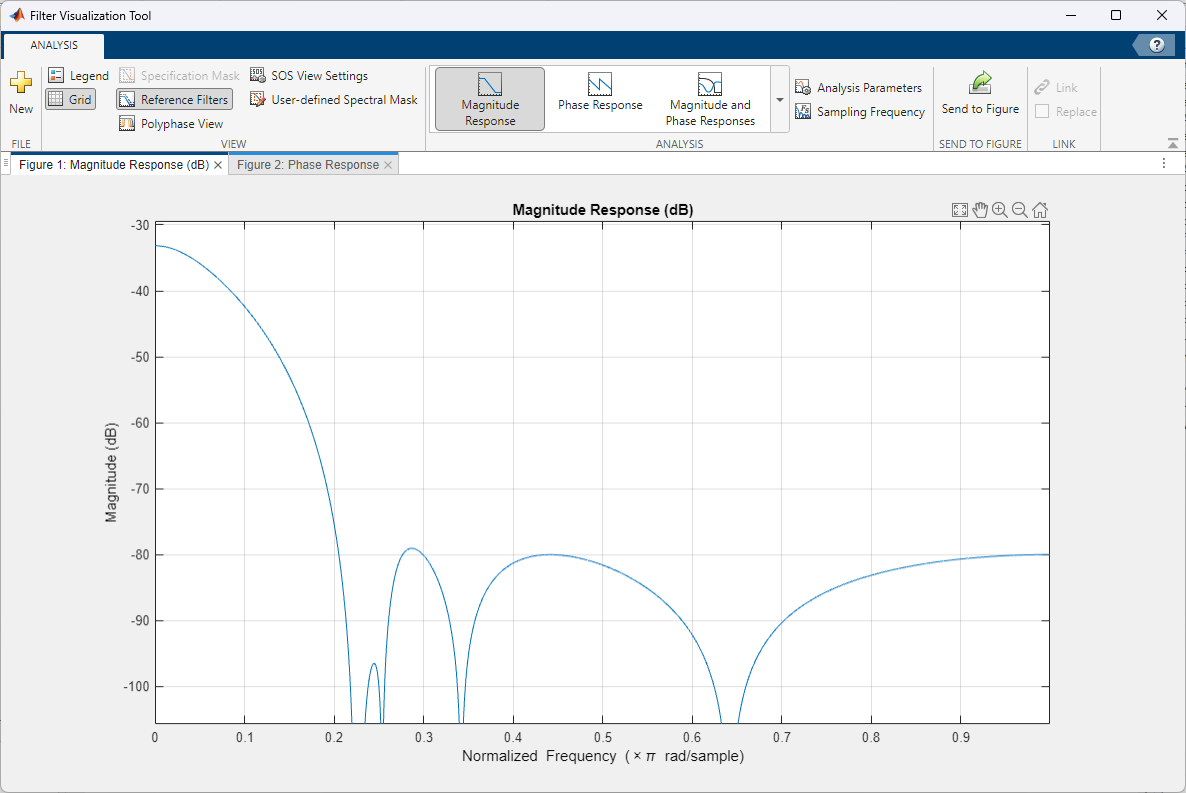
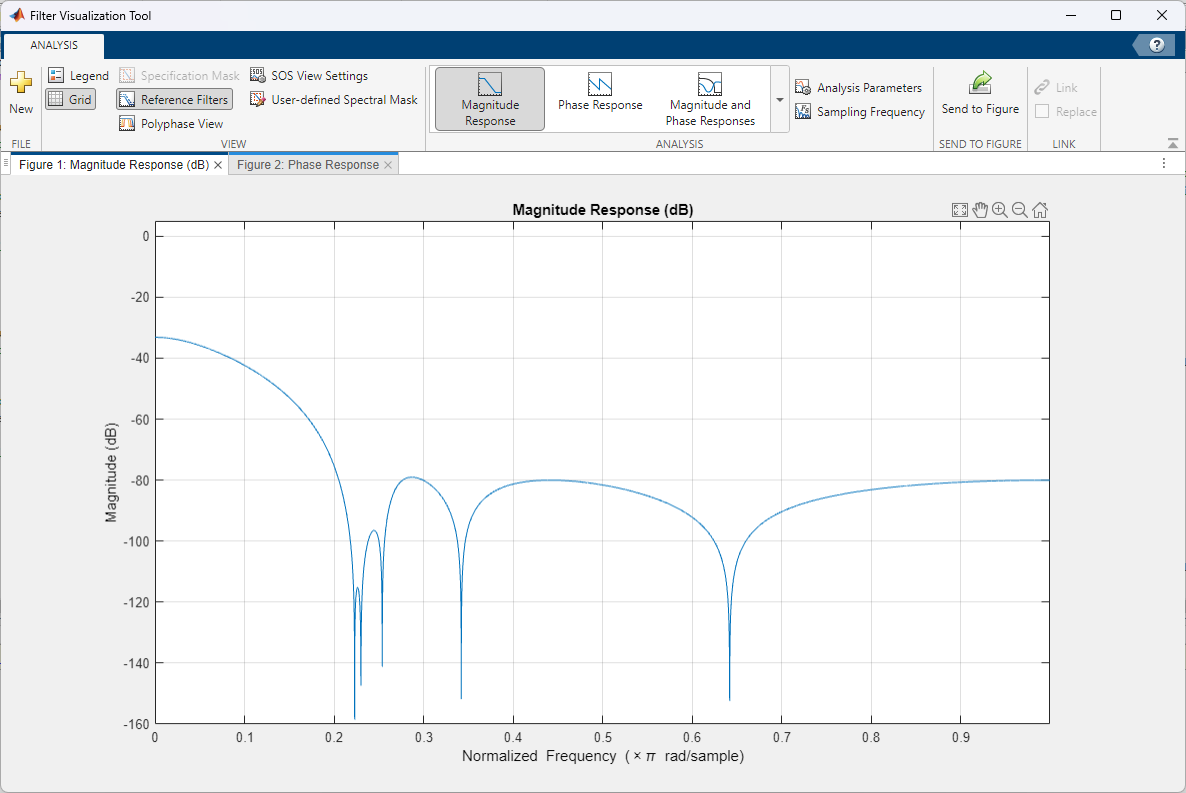
testbench

diff --git a/Projects/Final Project- IIR Filter/MATLAB/testbenches/matlab_tests/testbench.m b/Projects/Final Project- IIR Filter/MATLAB/testbenches/matlab_tests/testbench.m
@@ -2,19 +2,19 @@
 fs = 48000;         % Sampling frequency in Hz, exceeds the minimum required to satisfy the Nyquist criterion for the frequencies of interest in this project
 f_sin = 1000;       % Sine wave frequency in Hz
 t = 0:1/fs:1-1/fs;  % Time vector
-
-% ===================== Signal to Noise Ratio (SNR) and Estimated Number of Bits (ENOB) =====================
+ 
+% % ===================== Signal to Noise Ratio (SNR) and Estimated Number of Bits (ENOB) =====================
 fprintf('\nSNR and ENOB Testing:\n');
 % Generating a sine wave input signal
 input_signal = sin(2*pi*f_sin*t);
 
 % Generating noise by filtering random noise through the filter
-noise_unquantized = filter(b, a, 1, randn(size(t)));
-noise_quantized = filter(b_quantized_double, 1, randn(size(t)));
+noise_unquantized = filter(b_unquantized, a_unquantized, randn(size(t)));
+noise_quantized = filter(b_quantized_double, a_quantized_double, randn(size(t)));
 
 % Passing the sine wave and noise through both unquantized and quantized filters
-output_signal_unquantized = filter(b, 1, input_signal + noise_unquantized);
-output_signal_quantized = filter(b_quantized_double, 1, input_signal + noise_quantized);
+output_signal_unquantized = filter(b_unquantized, a_unquantized, input_signal + noise_unquantized);
+output_signal_quantized = filter(b_quantized_double, a_quantized_double, input_signal + noise_quantized);
 
 % First compute the Power Spectral Density (PSD) of the output signals
 [psd_unquantized, f] = pwelch(output_signal_unquantized, [], [], [], fs);
@@ -51,13 +51,18 @@ amplitudes = linspace(0.01, 1, 10);
 
 for amp = amplitudes
     input_signal_amp = amp * sin(2*pi*f_sin*t);
-    output_signal_amp_unquantized = filter(b, 1, input_signal_amp + noise_unquantized);
-    output_signal_amp_quantized = filter(b_quantized_double, 1, input_signal_amp + noise_quantized);
-    
-    % Measuring SNR against the original amplitude modulated signal
-    snr_amp_unquantized = snr(output_signal_amp_unquantized - input_signal_amp, noise_unquantized);
-    snr_amp_quantized = snr(output_signal_amp_quantized - input_signal_amp, noise_quantized);
-    
+    output_signal_amp_unquantized = filter(b_unquantized, a_unquantized, input_signal_amp + noise_unquantized);
+    output_signal_amp_quantized = filter(b_quantized_double, a_quantized_double, input_signal_amp + noise_quantized);
+
+    % SNR calculation should be done by comparing the filtered signal to the noise-free input
+    % Hence, subtracting the un-noised input signal from the output to isolate noise for SNR calculation
+    residual_noise_unquantized = output_signal_amp_unquantized - input_signal_amp;
+    residual_noise_quantized = output_signal_amp_quantized - input_signal_amp;
+
+    % Calculate SNR using the residual noise as the noise term
+    snr_amp_unquantized = snr(input_signal_amp, residual_noise_unquantized);
+    snr_amp_quantized = snr(input_signal_amp, residual_noise_quantized);
+
     fprintf('Amplitude: %.2f - Unquantized SNR: %.2f dB, Quantized SNR: %.2f dB\n', amp, snr_amp_unquantized, snr_amp_quantized);
 end
 
@@ -76,10 +81,12 @@ frequencies = linspace(Fpass_Hz, Fstop_Hz, 10);
 
 for freq = frequencies
     input_signal_sweep = sin(2*pi*freq*t);
-    output_signal_unquantized = filter(b, 1, input_signal_sweep + noise_unquantized);
-    output_signal_quantized = filter(b_quantized_double, 1, input_signal_sweep + noise_quantized);
-    snr_unquantized = snr(output_signal_unquantized - input_signal_sweep, noise_unquantized);
-    snr_quantized = snr(output_signal_quantized - input_signal_sweep, noise_quantized);
+    output_signal_unquantized = filter(b_unquantized, a_unquantized, input_signal_sweep + noise_unquantized);
+    output_signal_quantized = filter(b_quantized_double, a_quantized_double, input_signal_sweep + noise_quantized);
+    residual_noise_unquantized = output_signal_unquantized - input_signal_sweep;
+    residual_noise_quantized = output_signal_quantized - input_signal_sweep;
+    snr_amp_unquantized = snr(input_signal_sweep, residual_noise_unquantized);
+    snr_amp_quantized = snr(input_signal_sweep, residual_noise_quantized);
     fprintf('Frequency: %.2f Hz - Unquantized SNR: %.2f dB, Quantized SNR: %.2f dB\n', freq, snr_unquantized, snr_quantized);
 end
 
@@ -88,8 +95,8 @@ end
 impulse_input = zeros(size(t)); impulse_input(1) = 1;
 
 % Apply filters to impulse input 
-impulse_response_unquantized = filter(b, a, 1, impulse_input);
-impulse_response_quantized = filter(bq.Numerator, aq.Numerator, impulse_input); % Quantized
+impulse_response_unquantized = filter(b_unquantized, a_unquantized, impulse_input);
+impulse_response_quantized = filter(b_quantized_double, a_quantized_double, impulse_input); % Quantized
 
 % Plot impulse responses
 figure;
@@ -109,8 +116,8 @@ xlim([0 0.01]);
 
 % ===================== Total Harmonic Distortion (THD) =====================
 % Use generated sine wave input for the test signal for the THD calculation
-output_signal_unquantized = filter(b, 1, input_signal);
-output_signal_quantized = filter(b_quantized_double, 1, input_signal);
+output_signal_unquantized = filter(b_unquantized, a_unquantized, input_signal);
+output_signal_quantized = filter(b_quantized_double, a_quantized_double, input_signal);
 
 thd_unquantized = thd(output_signal_unquantized, fs);
 thd_quantized = thd(output_signal_quantized, fs);
@@ -128,8 +135,8 @@ f2 = 1200; % Frequency 2 for IMD signal
 input_signal_imd = sin(2*pi*f1*t) + sin(2*pi*f2*t);
 
 % Filtering and analyzing the IMD test signal
-output_signal_imd_unquantized = filter(b, 1, input_signal_imd);
-output_signal_imd_quantized = filter(b_quantized_double, 1, input_signal_imd);
+output_signal_imd_unquantized = filter(b_unquantized, a_unquantized, input_signal_imd);
+output_signal_imd_quantized = filter(b_quantized_double, a_quantized_double, input_signal_imd);
 
 % Spectrum analysis to observe IMD products
 [psd_imd_unquantized, f_imd] = pwelch(output_signal_imd_unquantized, [], [], [], fs);
@@ -156,8 +163,8 @@ overflow_test_amplitude = 32767;
 overflow_input_signal = overflow_test_amplitude * sin(2*pi*f_sin*t);
 
 % Apply filters to the high amplitude input signal
-output_signal_overflow_unquantized = filter(b, 1, overflow_input_signal);
-output_signal_overflow_quantized = filter(b_quantized_double, 1, overflow_input_signal);
+output_signal_overflow_unquantized = filter(b_unquantized, a_unquantized, overflow_input_signal);
+output_signal_overflow_quantized = filter(b_quantized_double, a_quantized_double, overflow_input_signal);
 
 % Analyze the output to see if overflow handling (saturation) was effective
 % Simple way to check is to look for the maximum and minimum values in the output signal

diff --git a/Projects/Final Project- IIR Filter/MATLAB/design/IIR_quantized.m b/Projects/Final Project- IIR Filter/MATLAB/design/IIR_quantized.m
@@ -3,7 +3,6 @@ Fpass = 0.2;       % Passband edge
 Fstop = 0.23;      % Stopband edge
 Apass = 1;         % Passband ripple (dB)
 Astop = 80;        % Stopband attenuation (dB)
-Fs = 1;            % Normalized frequency (since MATLAB uses normalized frequency for digital filters)
 
 % Calculate the necessary order and natural frequency
 [N, Wn] = ellipord(Fpass, Fstop, Apass, Astop);
@@ -11,26 +10,38 @@ Fs = 1;            % Normalized frequency (since MATLAB uses normalized frequenc
 % Bit depth for quantization
 num_bits = 16;
 
-[b, a] = ellip(N, Apass, Astop, Wn, 'low');
+% Configuration of fixed-point math properties for saturation on overflow
+Fm = fimath('OverflowAction','Saturate','RoundingMethod','Floor','ProductMode','SpecifyPrecision', ...
+'ProductWordLength',num_bits,'ProductFractionLength',num_bits-1,'SumMode','SpecifyPrecision', ...
+'SumWordLength',num_bits,'SumFractionLength',num_bits-1);
+
+[b_unquantized, a_unquantized] = ellip(N, Apass, Astop, Wn, 'low');
 
 % Analyze quantization effects
-bq = fi(b, 1, num_bits); % 16-bit signed fixed-point representation of 'b'
-aq = fi(a, 1, num_bits); % 16-bit signed fixed-point representation of 'a'
+b_quantized = fi(b_unquantized, 1, num_bits, num_bits - 1, 'fimath', Fm); % 16-bit signed fixed-point representation of 'b'
+a_quantized = fi(a_unquantized, 1, num_bits, num_bits - 1, 'fimath', Fm); % 16-bit signed fixed-point representation of 'a'
+
+% Convert fixed-point coefficients back to double precision 
+b_quantized_double = double(b_quantized);
+a_quantized_double = double(a_quantized);
 
 % Create a quantized filter object
-Hdq = dfilt.df2t(bq, aq);
+Hdq = dfilt.df2t(b_quantized_double, a_quantized_double);
 
 % Analyze the filter
-fvtool(Hdq, 'Analysis', 'magnitude'); % Frequency response
-fvtool(Hdq, 'Analysis', 'phase'); % Frequency response
+h = fvtool(Hdq, 'Analysis', 'magnitude');
+ax = get(h, 'CurrentAxes'); % Get the handle to the axes of the FVTool
+set(ax, 'YLim', [-160 5]); % Set Y-axis limits to show more detail in the stopband
+fvtool(Hdq, 'Analysis', 'phase');
+drawnow;
 
 % Open file for writing hex values
 fileID = fopen('quantized_coefficients.txt', 'w');
 
-% Iterate over each 'b' coefficient
-for i = 1:length(b)
+% Iterate over each coefficient
+for i = 1:length(b_unquantized)
     % Convert each coefficient to fixed-point representation
-    fixedPointValue = fi(b(i), 1, num_bits, num_bits - 1); % Using num_bits - 1 for fraction length
+    fixedPointValue = fi(b_unquantized(i), 1, num_bits, num_bits - 1); % Using num_bits - 1 for fraction length
     
     % Convert to hexadecimal string
     hexString = fixedPointValue.hex;
@@ -39,10 +50,10 @@ for i = 1:length(b)
     fprintf(fileID, '%s\n', hexString);
 end
 
-% Iterate over each 'a' coefficient
-for i = 1:length(a)
+% Iterate over each coefficient
+for i = 1:length(a_unquantized)
     % Convert each coefficient to fixed-point representation
-    fixedPointValue = fi(a(i), 1, num_bits, num_bits - 1); % Using num_bits - 1 for fraction length
+    fixedPointValue = fi(a_unquantized(i), 1, num_bits, num_bits - 1); % Using num_bits - 1 for fraction length
     
     % Convert to hexadecimal string
     hexString = fixedPointValue.hex;

diff --git a/Projects/FIR Filter/MATLAB/design/Filter_quantized.m b/Projects/FIR Filter/MATLAB/design/Filter_quantized.m
@@ -77,9 +77,9 @@ grid(hFVT.CurrentAxes, 'on');
 fileID = fopen('quantized_coefficients.txt', 'w');
 
 % Iterate over each coefficient
-for i = 1:length(b_quantized_double)
+for i = 1:length(b_unquantized)
     % Convert each coefficient to fixed-point representation
-    fixedPointValue = fi(b_quantized_double(i), 1, 16, 15); % 1 = signed, 16 = number of bits, 15 = fraction length
+    fixedPointValue = fi(b_unquantized(i), 1, 16, 15); % 1 = signed, 16 = number of bits, 15 = fraction length
     
     % Convert to hexadecimal string
     hexString = fixedPointValue.hex;

diff --git a/Projects/Final Project- IIR Filter/MATLAB/design/IIR_unquantized.m b/Projects/Final Project- IIR Filter/MATLAB/design/IIR_unquantized.m
@@ -17,5 +17,9 @@ Fs = 1;            % Normalized frequency (since MATLAB uses normalized frequenc
 Hd = dfilt.df2t(b, a);
 
 % Analyze the filter
-fvtool(Hd, 'Analysis', 'magnitude'); % Frequency response
+h = fvtool(Hd, 'Analysis', 'magnitude'); % Frequency response
+ax = get(h, 'CurrentAxes'); % Get the handle to the axes of the FVTool
+set(ax, 'YLim', [-160 5]); % Set Y-axis limits to show more detail in the stopband
+
 fvtool(Hd, 'Analysis', 'phase'); % Frequency response
+drawnow;
